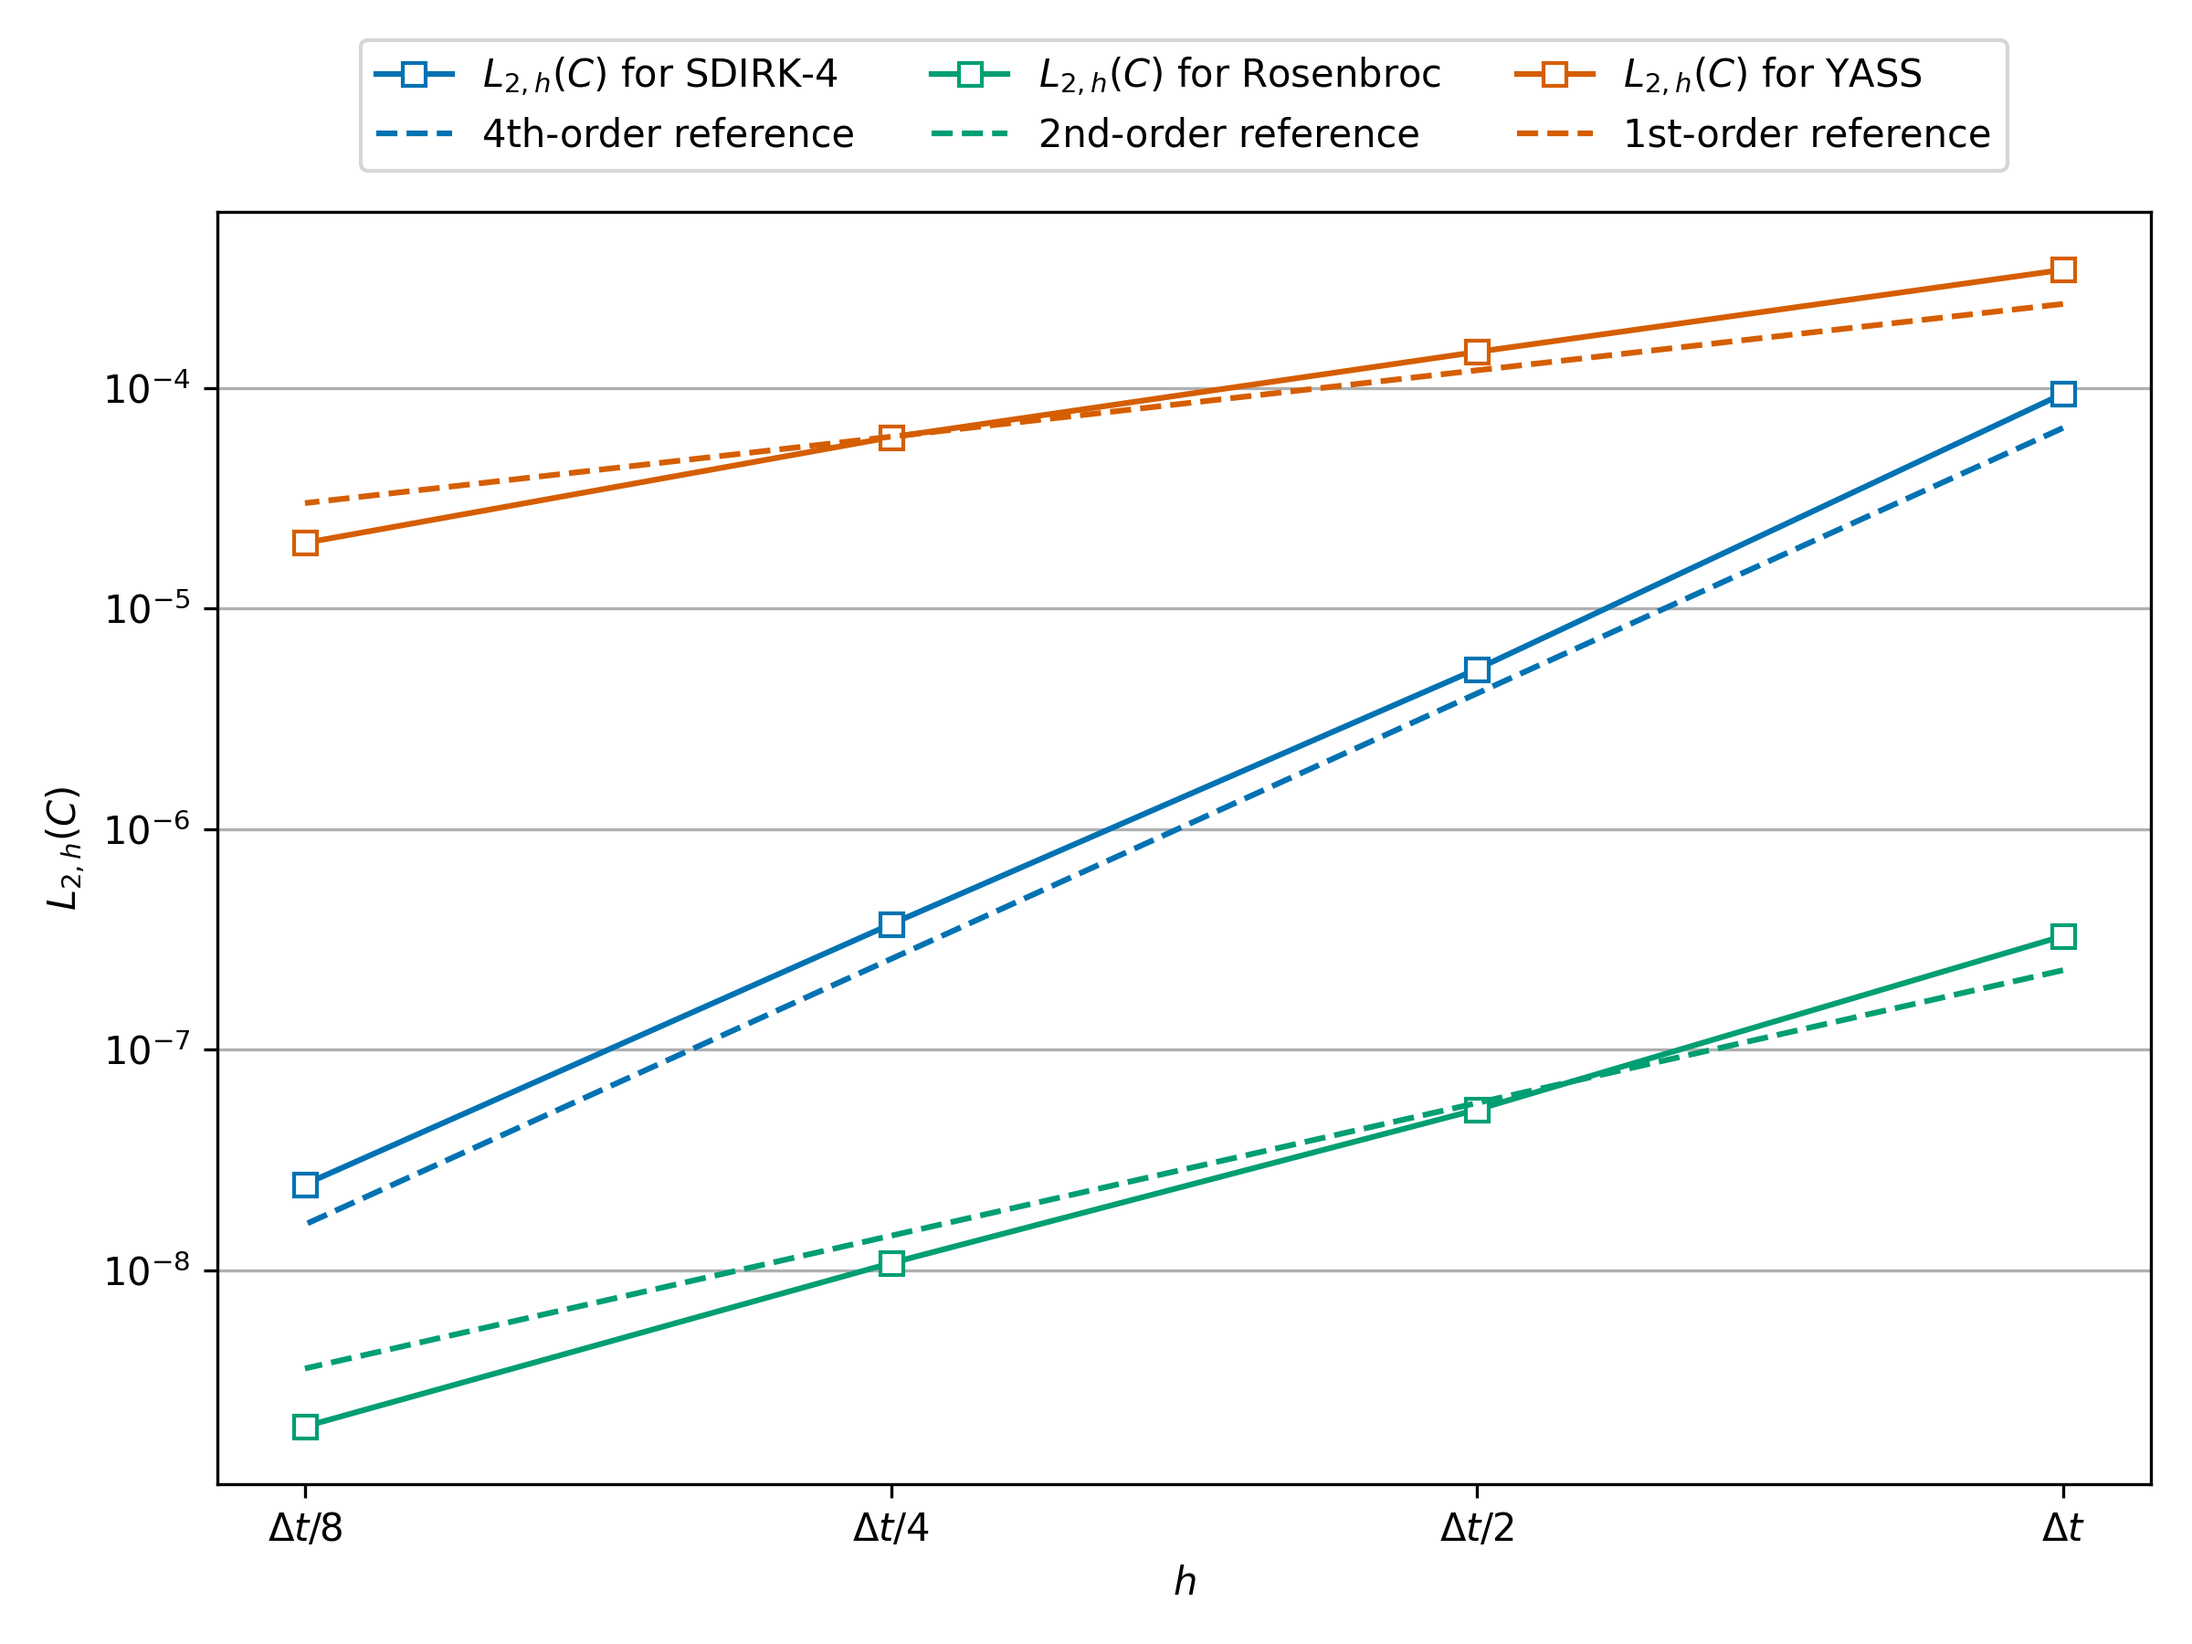
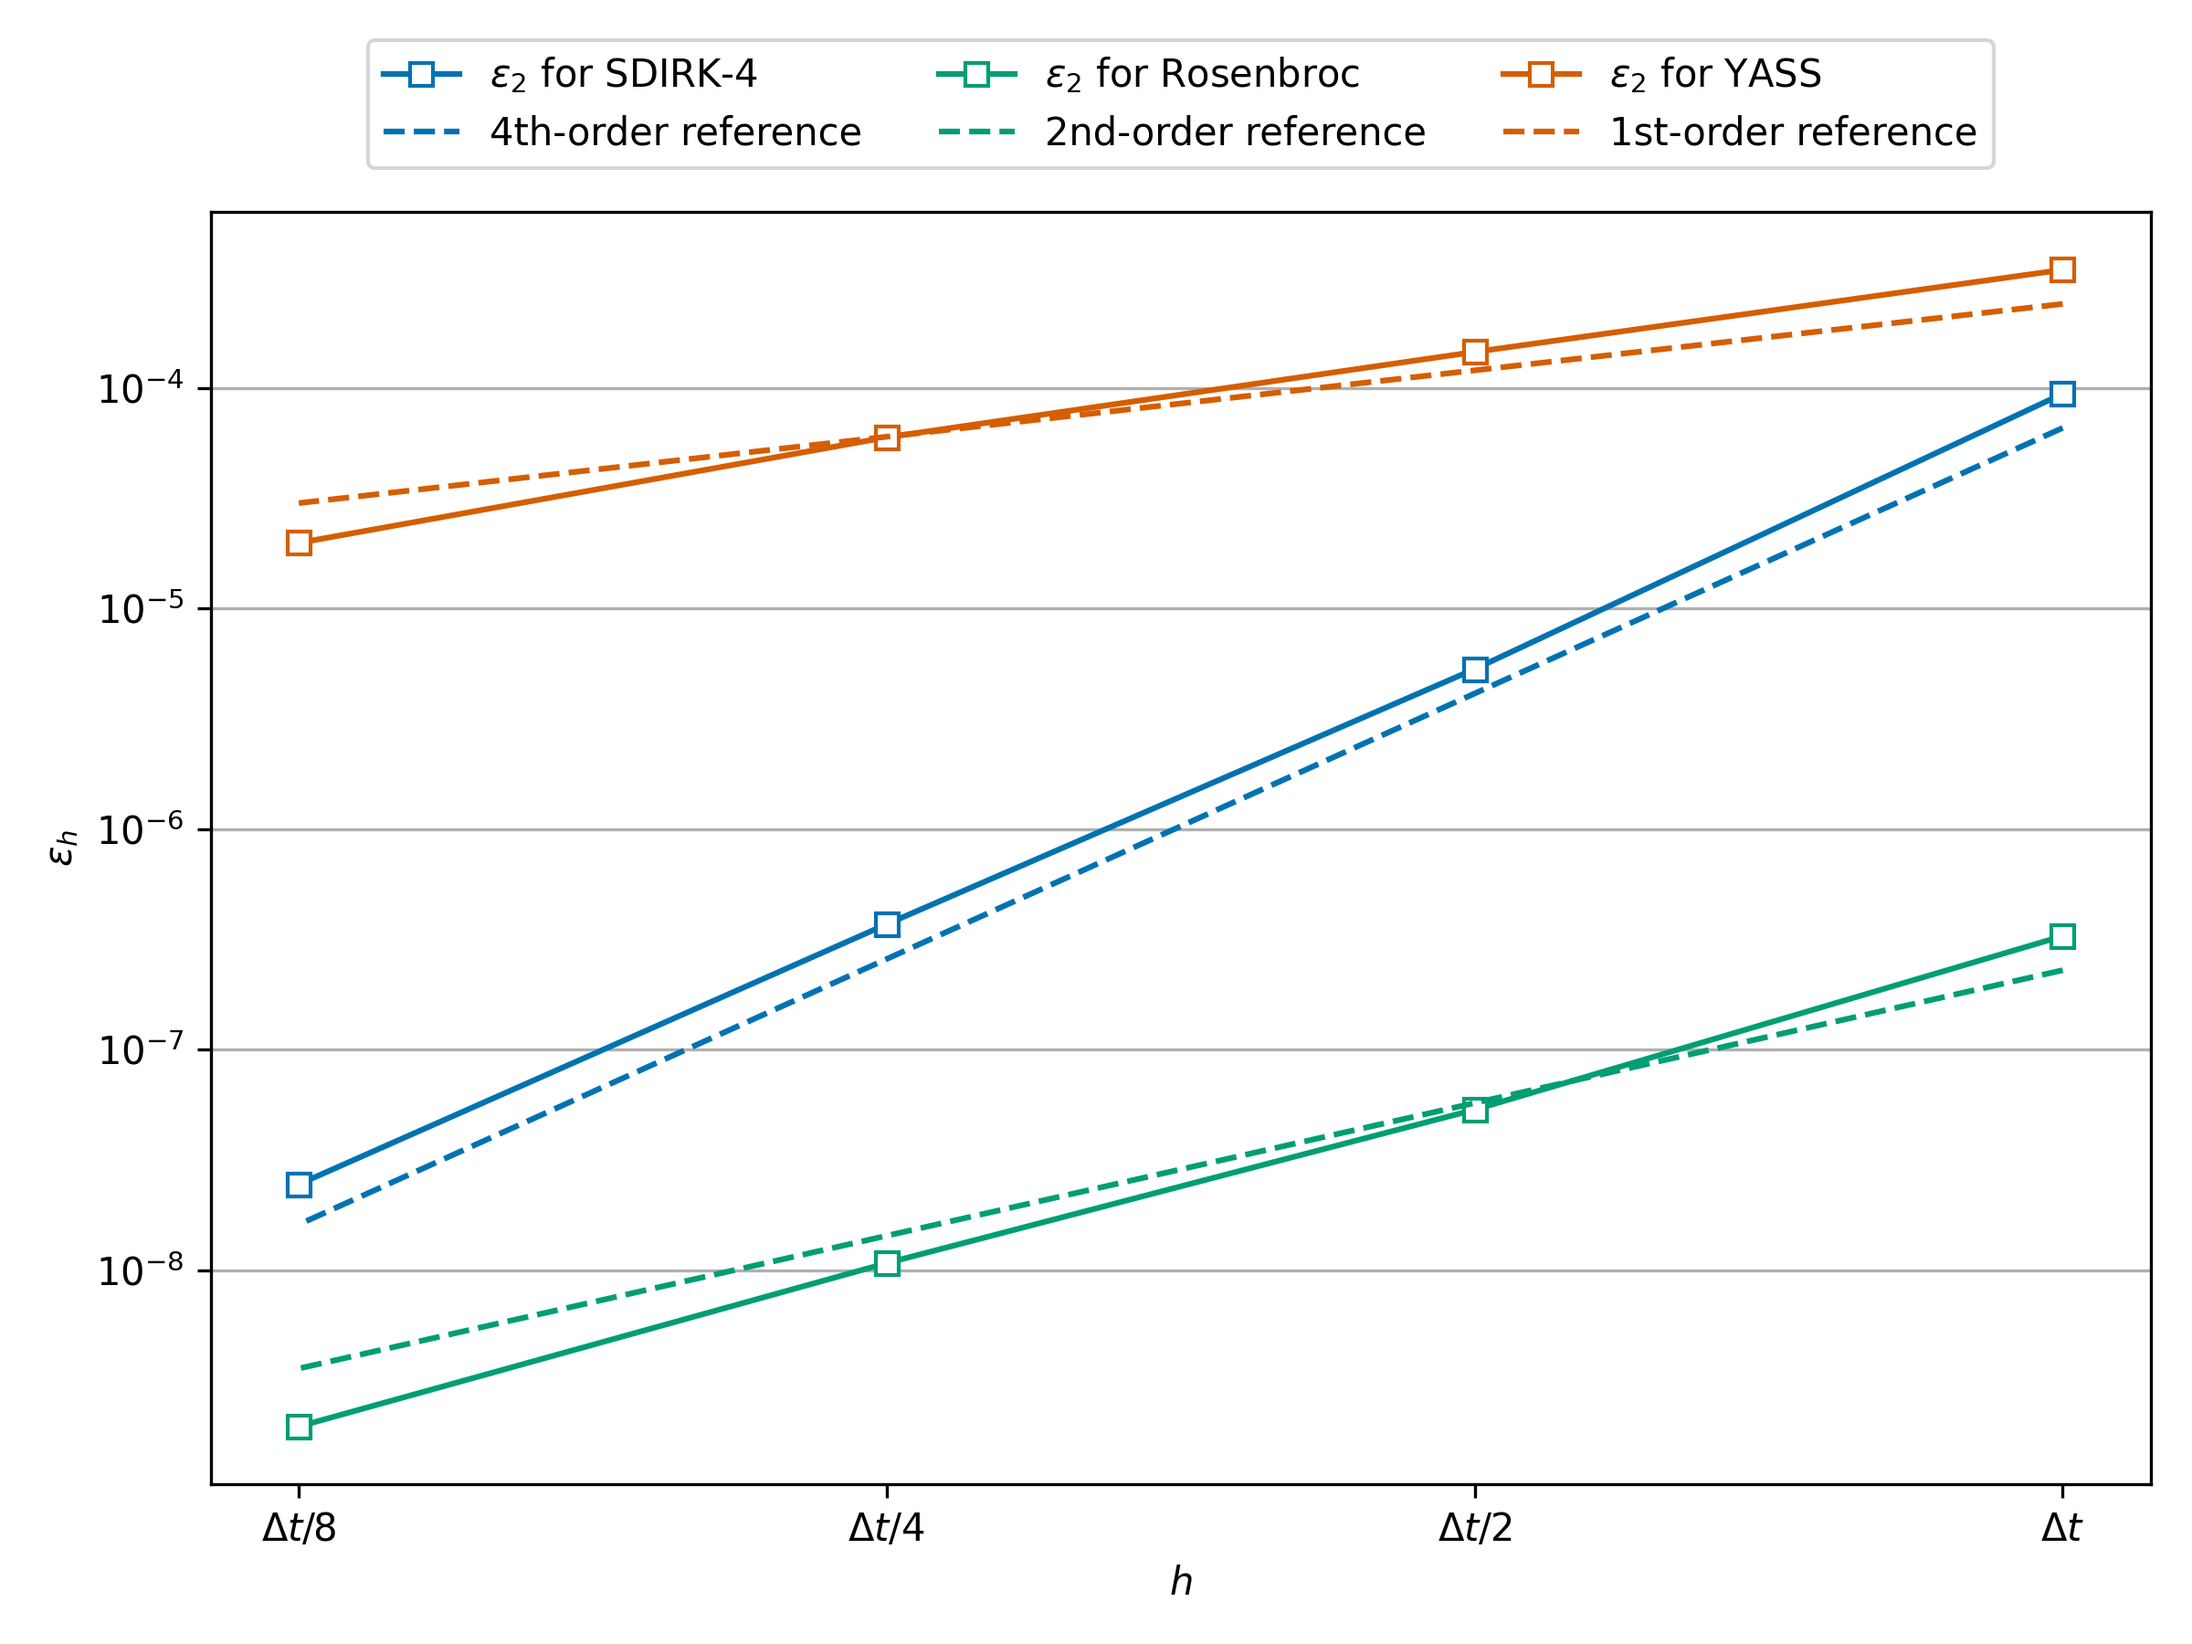
update plots

diff --git a/paper/data/04_implicit/post_convergence_H2.py b/paper/data/04_implicit/post_convergence_H2.py
@@ -43,7 +43,7 @@ for k, data_name in enumerate(["sdirk4","rosenbroc","yass"]):
     shift =0.30
 
 
-    plt.semilogy(refinement_levels[::-1], CL2/scales[k], 's-', color=colors[k], label=f'$L_{{2,h}}(C)$ for {titles[k]}', mfc="white")
+    plt.semilogy(refinement_levels[::-1], CL2/scales[k], 's-', color=colors[k], label=f'$\epsilon_{{2}}$ for {titles[k]}', mfc="white")
     if data_name=="yass":
         plt.semilogy(refinement_levels[::-1], (CL2[0]-CL2[0] * shift) * (0.5)**(refinement_levels - 1)/scales[k], '--', color=colors[k], label=f'1st-order reference')
     elif data_name=="sdirk4":
@@ -52,7 +52,7 @@ for k, data_name in enumerate(["sdirk4","rosenbroc","yass"]):
         plt.semilogy(refinement_levels[::-1], (CL2[0]-CL2[0] * shift)  * (0.25)**(refinement_levels - 1)/scales[k], '--', color=colors[k], label=f'2nd-order reference')
     # Formatting
     plt.xlabel("$h$")
-    plt.ylabel(f"$L_{{2,h}}(C)$")
+    plt.ylabel("$\epsilon_{h}$")
     #plt.title("Convergence of Temperature and Species")
     #plt.xticks(range(1, len(CL2) + 1))  # <- only show 1, 2, 3, 4, ...
     refinement_levels = np.arange(len(CL2))  # 0, 1, 2, 3, ...
